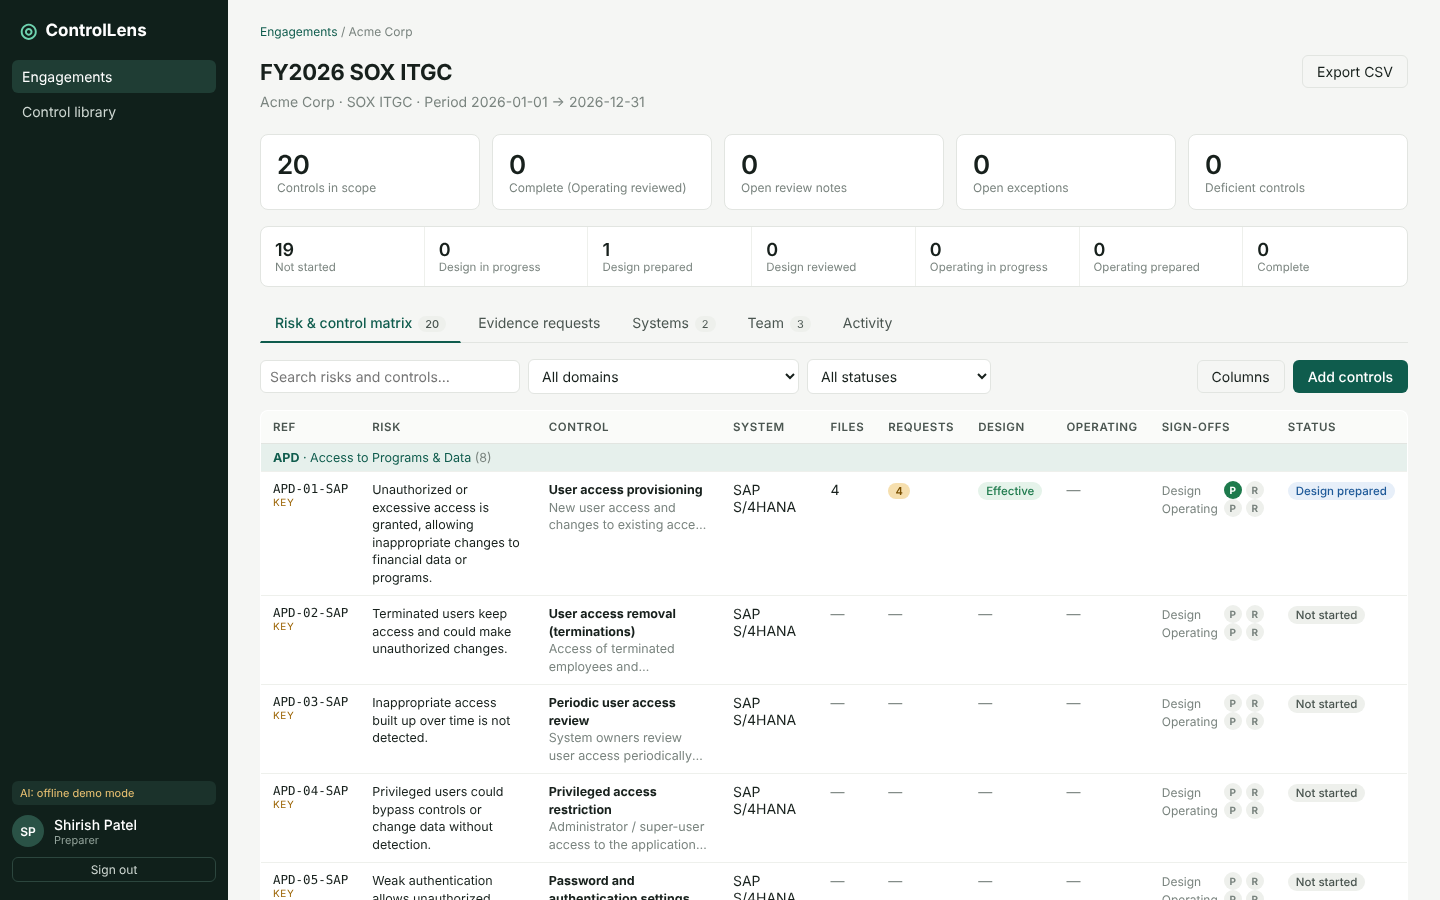
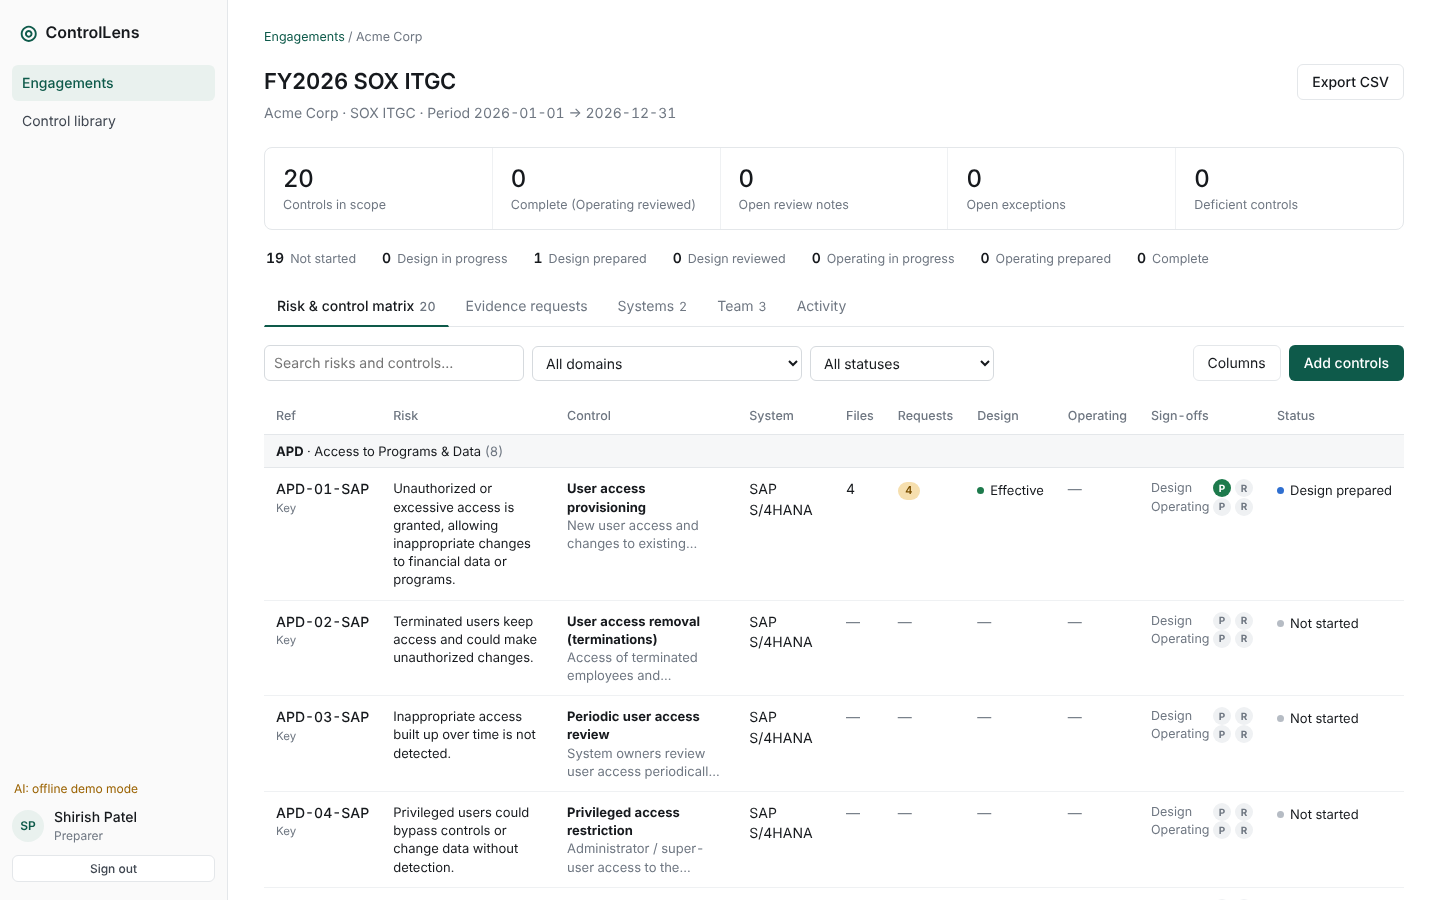
Visual refresh: IBM Plex Sans, white canvas, flat tables, dot-and-text status, light navigation
Claude-Session: https://claude.ai/code/session_01PbZNeSZbyqbGxuqMQrphZx

diff --git a/frontend/src/styles.css b/frontend/src/styles.css
@@ -337,3 +337,126 @@ button.sum:hover, .sum.on { border-color: var(--accent); color: var(--accent); }
 .tick { width: 18px; height: 18px; border-radius: 50%; font-size: 10px; font-weight: 700; display: inline-grid; place-items: center; background: var(--line-2); color: var(--muted); }
 .tick.on { background: var(--good); color: #fff; }
 .tick { flex: none; }
+
+/* ==========================================================================
+   Visual refresh: one typeface (IBM Plex Sans), white canvas, hairlines,
+   status shown as a small dot + plain text. Colour is kept for meaning only.
+   ========================================================================== */
+:root {
+  --sans: "IBM Plex Sans", system-ui, -apple-system, "Segoe UI", sans-serif;
+  --mono: "IBM Plex Mono", ui-monospace, monospace;
+  --bg: #ffffff; --panel: #ffffff;
+  --ink: #16191d; --ink-2: #3f4650; --muted: #6f7782;
+  --line: #e4e7ea; --line-2: #eff1f3; --wash: #f6f7f8;
+  --accent: #0e5a4a; --accent-2: #e9f1ee;
+  --radius: 8px;
+  font-family: var(--sans); font-size: 14px; line-height: 1.45; color: var(--ink); background: var(--bg);
+  -webkit-font-smoothing: antialiased; font-feature-settings: "tnum" 1;
+}
+body { background: var(--bg); }
+button, input, select, textarea { font-family: var(--sans); }
+h1 { font-size: 22px; font-weight: 600; letter-spacing: -0.012em; line-height: 1.25; }
+h3 { font-size: 15px; font-weight: 600; }
+h4 { font-size: 13.5px; font-weight: 600; text-transform: none; letter-spacing: 0; color: var(--ink); margin: 16px 0 8px; }
+.small { font-size: 12.5px; }
+.mono, code { font-family: var(--sans); font-size: inherit; font-weight: 500; font-variant-numeric: tabular-nums; }
+pre.json, pre.doc, .mono.small { font-family: var(--mono); font-weight: 400; font-size: 12px; }
+.ref { background: none; color: var(--ink-2); padding: 0; font-weight: 500; }
+.field-l { text-transform: none; letter-spacing: 0; font-size: 12.5px; color: var(--muted); }
+label { font-weight: 400; color: var(--ink-2); font-size: 13px; }
+:focus-visible { outline: 2px solid var(--accent); outline-offset: 1px; }
+
+/* controls */
+button { font-weight: 500; }
+button.primary { background: var(--accent); }
+button.ghost { border-color: var(--line); background: #fff; }
+button.ghost:hover:not(:disabled) { background: var(--wash); }
+input, select, textarea { border-color: #d6dade; }
+input:focus, select:focus, textarea:focus { outline: 2px solid var(--accent-2); border-color: var(--accent); }
+
+/* side navigation: light, quiet */
+.side { background: #fafafa; color: var(--ink-2); border-right: 1px solid var(--line); }
+.brand { color: var(--ink); font-weight: 600; font-size: 16px; }
+.logo { color: var(--accent); }
+.side nav a { color: var(--ink-2); font-weight: 400; }
+.side nav a:hover { background: var(--line-2); }
+.side nav a.active { background: var(--accent-2); color: var(--accent); font-weight: 500; }
+.side-foot .ghost { color: var(--ink-2); border-color: var(--line); }
+.ai-pill { background: none; color: var(--muted); padding: 0 2px; font-size: 12px; }
+.ai-pill.mock { color: var(--warn); }
+.avatar { background: var(--accent-2); color: var(--accent); }
+.me-name { color: var(--ink); } .me-role { color: var(--muted); font-size: 12px; }
+
+/* pages */
+.page { padding: 28px 36px 64px; gap: 18px; }
+.ws-page { padding: 18px 22px 40px; gap: 12px; }
+.crumbs { font-size: 12.5px; }
+.card { border-color: var(--line); padding: 18px; }
+
+/* tables: flat, hairlines only */
+.table { border: 0; border-radius: 0; background: transparent; }
+.table th { background: none; text-transform: none; letter-spacing: 0; font-size: 12.5px; font-weight: 500; color: var(--muted); padding: 8px 12px; border-bottom: 1px solid var(--line); }
+.table td { padding: 11px 12px; border-bottom: 1px solid var(--line-2); }
+.table tr:last-child td { border-bottom: 1px solid var(--line-2); }
+.rcm-group td { background: var(--wash); color: var(--ink); font-size: 13px; padding: 7px 12px; border-bottom: 1px solid var(--line); }
+.rcm-row:hover td, .rcm-row:focus td { background: #f7faf8; }
+.rcm-text { font-size: 13px; }
+.keytag { text-transform: none; letter-spacing: 0; font-size: 11.5px; color: var(--muted); font-weight: 400; }
+
+/* status: dot + text, no filled pills */
+.badge { background: none !important; padding: 0; border-radius: 0; font-size: 13px; font-weight: 400; color: var(--ink) !important; display: inline-flex; align-items: center; gap: 6px; }
+.badge::before { content: ""; width: 7px; height: 7px; border-radius: 50%; background: #b6bcc4; flex: none; }
+.badge.good::before { background: var(--good); } .badge.warn::before { background: #d08a00; }
+.badge.bad::before { background: var(--bad); } .badge.info::before { background: #2f6fd0; }
+.count { background: none; color: var(--muted); padding: 0; margin-left: 5px; font-size: 12.5px; }
+
+/* summary strips */
+.kpis { display: flex; gap: 0; border: 1px solid var(--line); border-radius: var(--radius); }
+.kpi { flex: 1; border: 0; border-right: 1px solid var(--line-2); border-radius: 0; background: none; padding: 14px 18px; }
+.kpi:last-child { border-right: 0; }
+.kpi-n { font-size: 24px; font-weight: 500; letter-spacing: -0.01em; }
+.kpi-l { font-size: 12.5px; }
+.card.pipeline { display: flex; flex-wrap: wrap; gap: 6px 26px; border: 0; padding: 0 2px; background: none; }
+.pipe-step { display: flex; align-items: baseline; gap: 6px; padding: 0; border: 0; }
+.pipe-n { font-size: 14px; font-weight: 600; } .pipe-l { font-size: 12.5px; }
+.sum { border-color: var(--line); font-size: 13px; padding: 4px 12px; }
+.sum.plain { border: 0; padding-left: 6px; padding-right: 6px; }
+
+/* tabs and stepper */
+.tabs { gap: 4px; }
+.tabs button { padding: 9px 12px; font-weight: 400; color: var(--muted); }
+.tabs button.on { color: var(--ink); font-weight: 500; border-bottom-color: var(--accent); }
+.stepper { border: 0; padding: 2px 0; background: none; }
+.st { font-size: 12.5px; }
+.st.now { color: var(--ink); font-weight: 500; }
+
+/* agents */
+.agentbar { background: var(--wash); color: var(--ink); border: 1px solid var(--line); padding: 14px 16px; }
+.agentbar .muted { color: var(--muted); }
+.agentbar select { background: #fff; color: var(--ink); border-color: #d6dade; }
+.agentbar .primary, .agentbar button.primary:hover:not(:disabled) { background: var(--accent); color: #fff; }
+.agent-name { font-size: 15px; font-weight: 600; }
+.spark, .spark.dark { color: var(--accent); }
+.intake, .signbox, .railstat, .cite, .response { background: var(--wash); }
+button.cite { border-left: 2px solid var(--line); }
+.cite q { font-style: normal; color: var(--ink-2); }
+.chip { font-family: var(--sans); background: none; border: 1px solid var(--line); color: var(--ink-2); }
+.pane { border-color: var(--line); }
+.pane-head b { font-weight: 600; }
+.launcher { border: 0; padding: 8px 0; margin: 16px auto; }
+.launch { border-color: var(--line); }
+.launch-n { background: none; border: 1px solid var(--line); color: var(--ink-2); font-weight: 500; }
+.railcard.on { box-shadow: none; border-color: var(--accent); }
+.signchip { background: none; padding: 0; color: var(--muted); }
+.signchip.on { background: none; color: var(--good); }
+.step-h .n { background: none; border: 1px solid var(--line); color: var(--ink-2); background-color: #fff; }
+.banner { font-size: 13px; }
+.banner.info { background: var(--wash); color: var(--ink-2); }
+.empty { border-style: solid; border-color: var(--line-2); background: var(--wash); }
+.toast.ok { background: #16191d; }
+
+/* login keeps one strong panel */
+.login-art { background: #0c3b31; color: #d5e2dd; }
+.login-art .brand { color: #fff; } .login-art .logo { color: #7fd6b6; }
+.login-art h1 { font-size: 32px; font-weight: 500; letter-spacing: -0.02em; line-height: 1.2; }
+.login-card h2 { font-weight: 600; margin: 0; }

diff --git a/frontend/index.html b/frontend/index.html
@@ -5,7 +5,7 @@
     <meta name="viewport" content="width=device-width, initial-scale=1.0" />
     <title>ControlLens</title>
     <link rel="preconnect" href="https://fonts.googleapis.com" />
-    <link href="https://fonts.googleapis.com/css2?family=IBM+Plex+Mono:wght@400;500&family=Inter:wght@400;500;600;700&display=swap" rel="stylesheet" />
+    <link href="https://fonts.googleapis.com/css2?family=IBM+Plex+Mono:wght@400&family=IBM+Plex+Sans:wght@400;500;600&display=swap" rel="stylesheet" />
   </head>
   <body>
     <div id="root"></div>
